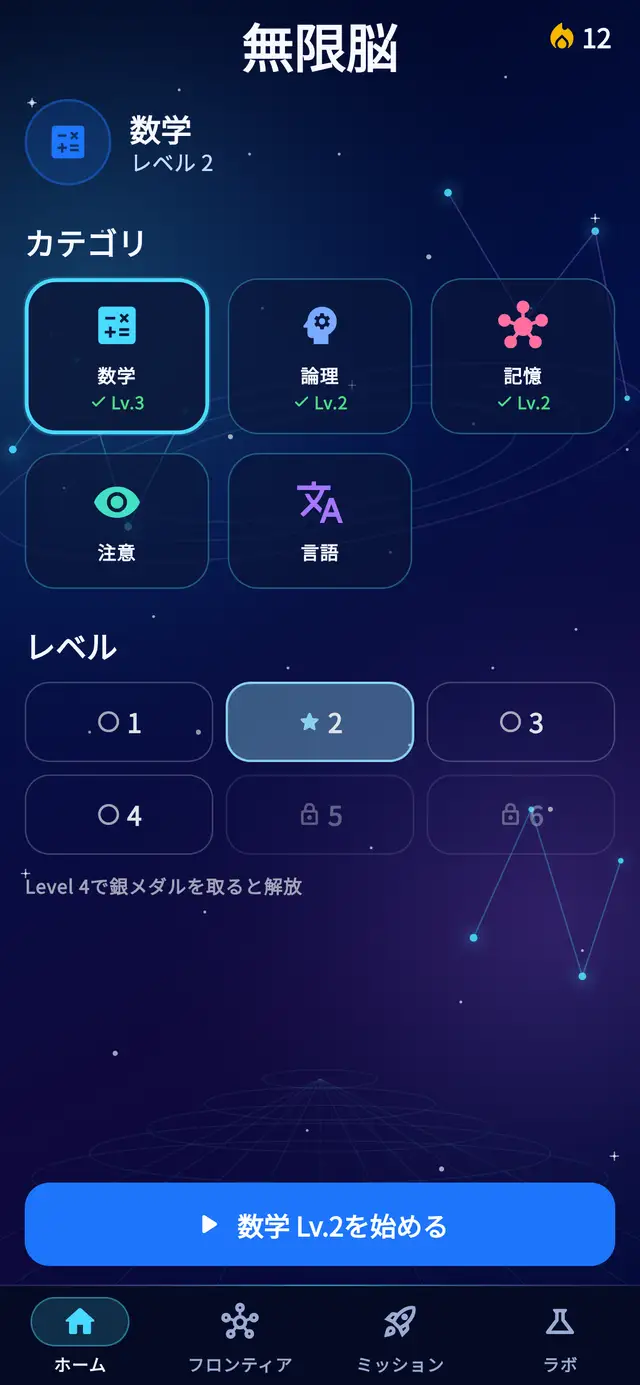
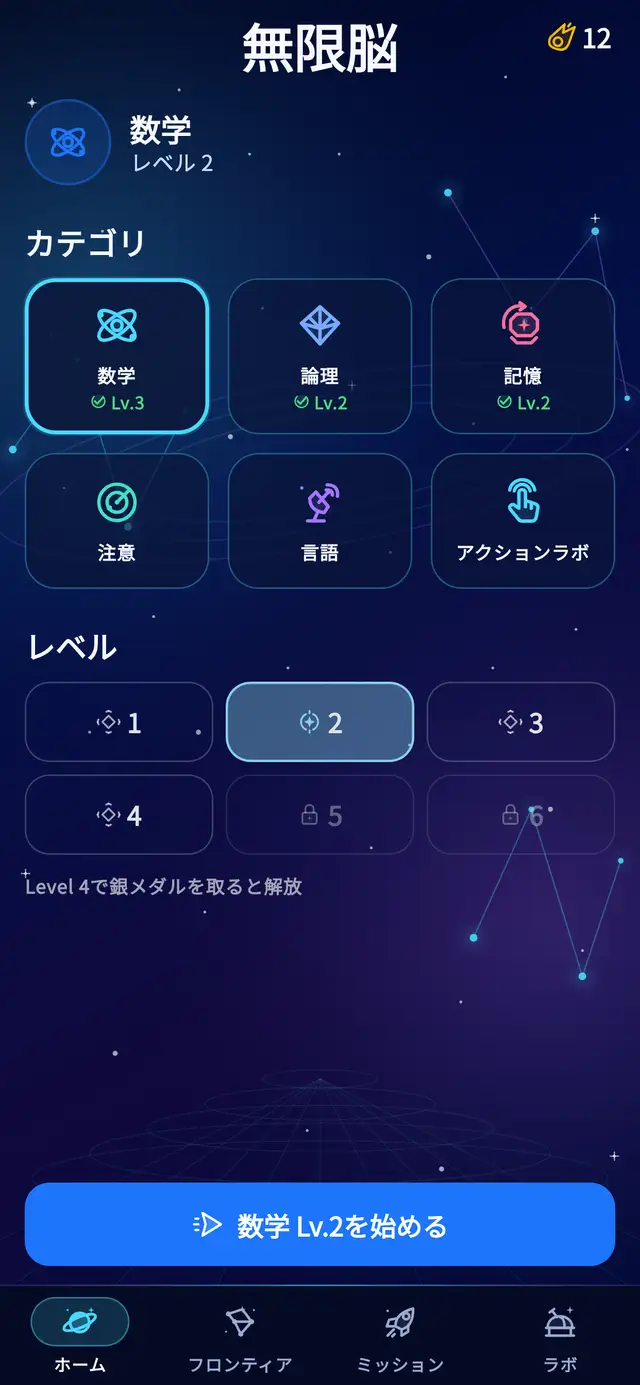
feat(works): 無限脳を1.0.4の中身に合わせ、画面を11枚に焼き直す
1.0.2から36コミット分進んでいて、ページの記述が実装と合わなくなっていた。
アクションラボが丸ごと載っておらず、広告の出し方も変わっている。

- 04 Action Lab の節を足す。1カテゴリ2形式の全10形式、1回10問で時間制限
  なし、通常トレーニング完走で正解1問10ポイント、挑戦に20ポイント消費、
  再開は追加消費なし。ポイントを売る導線は用意していない。
- 全画面広告を「1回につき1本」から「5回終えるごとに最大1本」に直す。
  毎回挟む作りがアンインストールの理由になる、という理由も設計の考え方へ。
- Training に Report（理由つきで報告、1回2枚まで）と Clock を足す。30秒は
  壁時計で持ち、計測に送る回答時間からは離れていた分を引いている。
- 画面を9枚から11枚に焼き直す。ファイル名はアプリ側のシーン名と1対1に
  揃え、これまでの番号の読み替えをやめた。

diff --git a/googja/src/data/site.ts b/googja/src/data/site.ts
@@ -78,63 +78,76 @@ export interface Shot {
 	alt: string;
 }
 
-/** 無限脳 の実画面。アプリ側リポジトリの store-metadata スキルが生成した
+/** 無限脳 の実画面。アプリ側リポジトリの store-shots テストが生成した
     枠なしのスクリーンショット（iPhone 6.5・日本語）をそのまま使っている。
     メダルや連続記録はストア素材と同じ仕込み済みの状態。
+    番号はアプリ側のシーン名とそのまま1対1にしてある（読み替えないこと）。
     技術名を流す帯の代わりに、ヒーロー直下で実物を見せる。 */
 export const shots: Shot[] = [
 	{
 		no: '01',
 		src: '/works/brain-infinity/01-home.webp',
-		caption: 'カテゴリとレベルを選ぶ',
-		alt: '無限脳のホーム画面。数学・論理・記憶・注意・言語の5カテゴリと、レベル1〜6の選択が並んでいる。',
+		caption: 'カテゴリとアクションラボを選ぶ',
+		alt: '無限脳のホーム画面。数学・論理・記憶・注意・言語の5カテゴリとアクションラボのタイルが並び、その下にレベル1〜6の選択がある。',
 	},
 	{
 		no: '02',
 		src: '/works/brain-infinity/02-quiz.webp',
-		caption: '1問30秒・1セッション10問',
-		alt: '無限脳の出題画面。残り時間と1/10の進捗、問題文、4つの選択肢が表示されている。',
+		caption: '通常トレーニング（1問30秒）',
+		alt: '無限脳の出題画面。上部に残り30秒のリングと1/10の進捗、問題文と4つの選択肢、下部にヒントと問題の報告への導線が並んでいる。',
 	},
 	{
 		no: '03',
-		src: '/works/brain-infinity/03-result.webp',
-		caption: '結果とメダル判定',
-		alt: '無限脳の結果画面。10問中9問正解で銀メダル、自己ベスト更新、前回スコアと最高連続正解、ブレインコアXPの獲得が表示されている。',
+		src: '/works/brain-infinity/03-action-catalog.webp',
+		caption: 'アクションラボの形式一覧',
+		alt: '無限脳のアクションラボ画面。所持ポイント80Pとカテゴリの絞り込みが上部にあり、つなぎ算と数の天秤のカードに1形式10問・20ポイントと表示されている。',
 	},
 	{
 		no: '04',
-		src: '/works/brain-infinity/04-frontier.webp',
-		caption: 'ニューラル・フロンティア',
-		alt: '無限脳のフロンティア画面。カテゴリを惑星として航路で結び、分野ごとの到達レベルとメダル、航路シグナルの点灯数を表示している。',
+		src: '/works/brain-infinity/04-action-puzzle.webp',
+		caption: 'アクションラボ（数の天秤）',
+		alt: '無限脳のアクションパズル画面。4個のブロックで左右をそれぞれ6にする天秤の問題。左右の置き場と使えるブロック5・1・2・4が並び、進捗は4/10問。制限時間の表示はない。',
 	},
 	{
 		no: '05',
-		src: '/works/brain-infinity/05-calendar.webp',
-		caption: 'プレイカレンダーと連続記録',
-		alt: '無限脳のプレイカレンダー画面。連続記録12日とプレイ日数23日、月別のカレンダーが表示されている。',
+		src: '/works/brain-infinity/05-result.webp',
+		caption: '結果とメダル判定',
+		alt: '無限脳の結果画面。10問中9問正解で銀メダル、自己ベスト更新、前回7/10と最高連続正解7、ブレインコアXP+134でコアがレベル5になったことが表示されている。',
 	},
 	{
 		no: '06',
-		src: '/works/brain-infinity/06-mission.webp',
-		caption: 'ミッションと成長ログ',
-		alt: '無限脳のミッション画面。コアのおすすめ、今日のオービット、成長ログが並んでいる。',
+		src: '/works/brain-infinity/06-frontier.webp',
+		caption: 'ニューラル・フロンティア',
+		alt: '無限脳のフロンティア画面。航路シグナル9/30点灯と、カテゴリごとのレベル1〜6の到達状況とメダルが航路として並んでいる。',
 	},
 	{
 		no: '07',
-		src: '/works/brain-infinity/07-lab.webp',
-		caption: '研究ラボ（ブレインコアとNEURAL INDEX）',
-		alt: '無限脳の研究ラボ画面。ブレインコアのレベルとXP、適応トレーニングの内訳、NEURAL INDEX と成長軌道が表示されている。',
+		src: '/works/brain-infinity/07-mission.webp',
+		caption: 'ミッション（オービットとアクションラボ）',
+		alt: '無限脳のミッション画面。今日のオービット、オービット専用の連続記録と達成日数、アクションラボの「続きから再開・追加消費なし」のカードが並んでいる。',
 	},
 	{
 		no: '08',
-		src: '/works/brain-infinity/08-settings.webp',
-		caption: '設定（言語・プライバシー・購入）',
-		alt: '無限脳の設定画面。言語と名前、効果音と音楽、アクセシビリティへの導線、生まれた年と利用状況データの送信が並び、下端の購入セクションに「広告を非表示 ¥500」と「購入を復元」が見えている。',
+		src: '/works/brain-infinity/08-lab.webp',
+		caption: '研究ラボ（ブレインコアとNEURAL INDEX）',
+		alt: '無限脳の研究ラボ画面。ブレインコアがレベル5で42/500XP、コアのおすすめが数学・Lv.3、NEURAL INDEXが25で5カテゴリ測定済みと表示されている。',
 	},
 	{
 		no: '09',
-		src: '/works/brain-infinity/09-accessibility.webp',
+		src: '/works/brain-infinity/09-calendar.webp',
+		caption: 'プレイカレンダーと成長ログ',
+		alt: '無限脳のプレイカレンダー画面。連続記録12日、プレイ日数23日、メダル獲得9/30、最高連続正解10の成長ログと、2026年9月のカレンダーが表示されている。',
+	},
+	{
+		no: '10',
+		src: '/works/brain-infinity/10-settings.webp',
+		caption: '設定（言語・プライバシー・購入）',
+		alt: '無限脳の設定画面。言語と名前、効果音と音楽、アクセシビリティへの導線、生まれた年と利用状況データの送信が並び、下端の購入セクションに「広告を非表示 ¥500」が見えている。',
+	},
+	{
+		no: '11',
+		src: '/works/brain-infinity/11-accessibility.webp',
 		caption: 'アクセシビリティ',
-		alt: '無限脳のアクセシビリティ画面。高コントラスト、画面のズーム、形状とラベル、視差効果を減らす、字幕の切り替えが並んでいる。',
+		alt: '無限脳のアクセシビリティ画面。高コントラストと画面のズーム、形状とラベル、視差効果を減らす、字幕の切り替えが、見え方・動き・音に分かれて並んでいる。',
 	},
 ];
